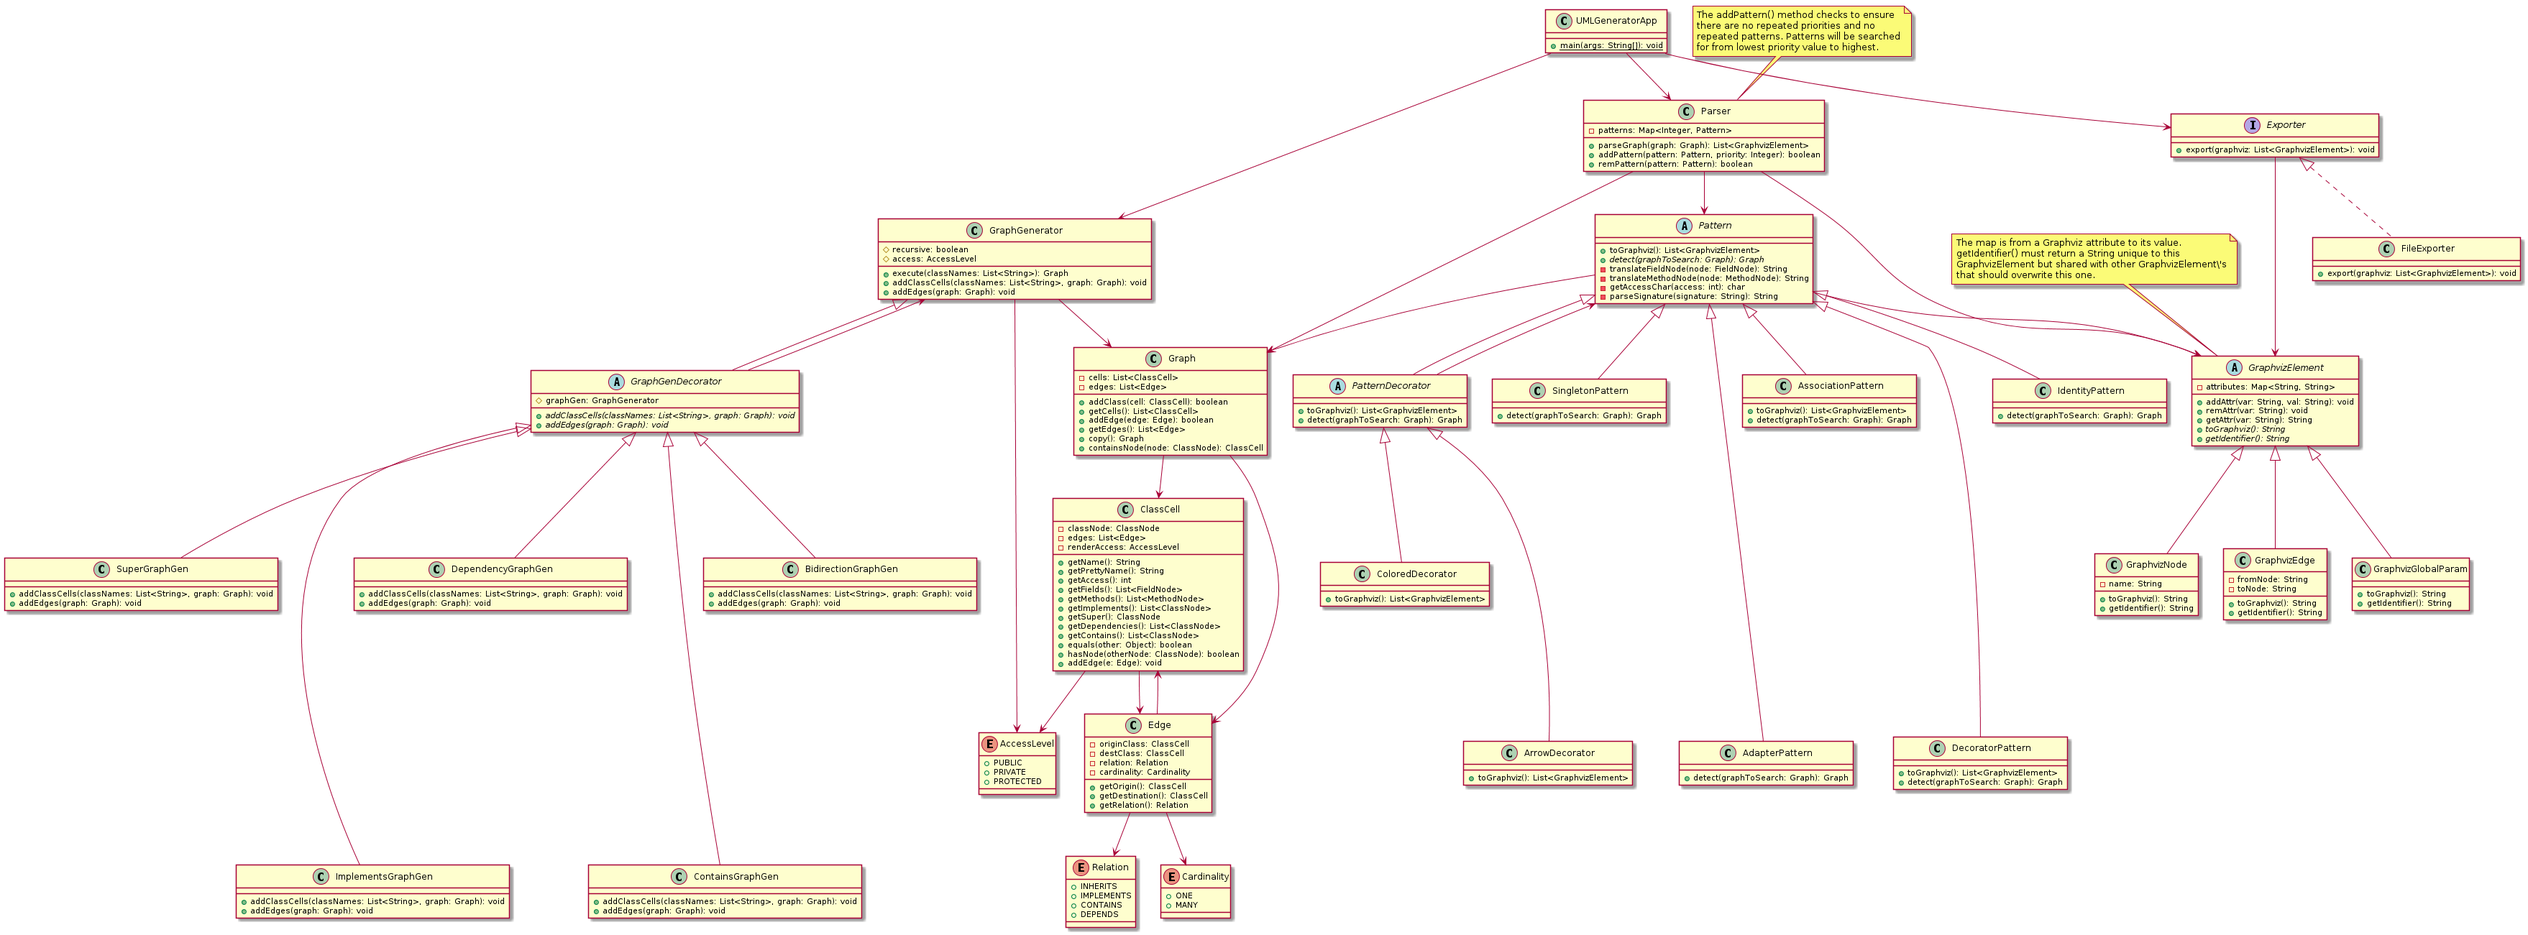
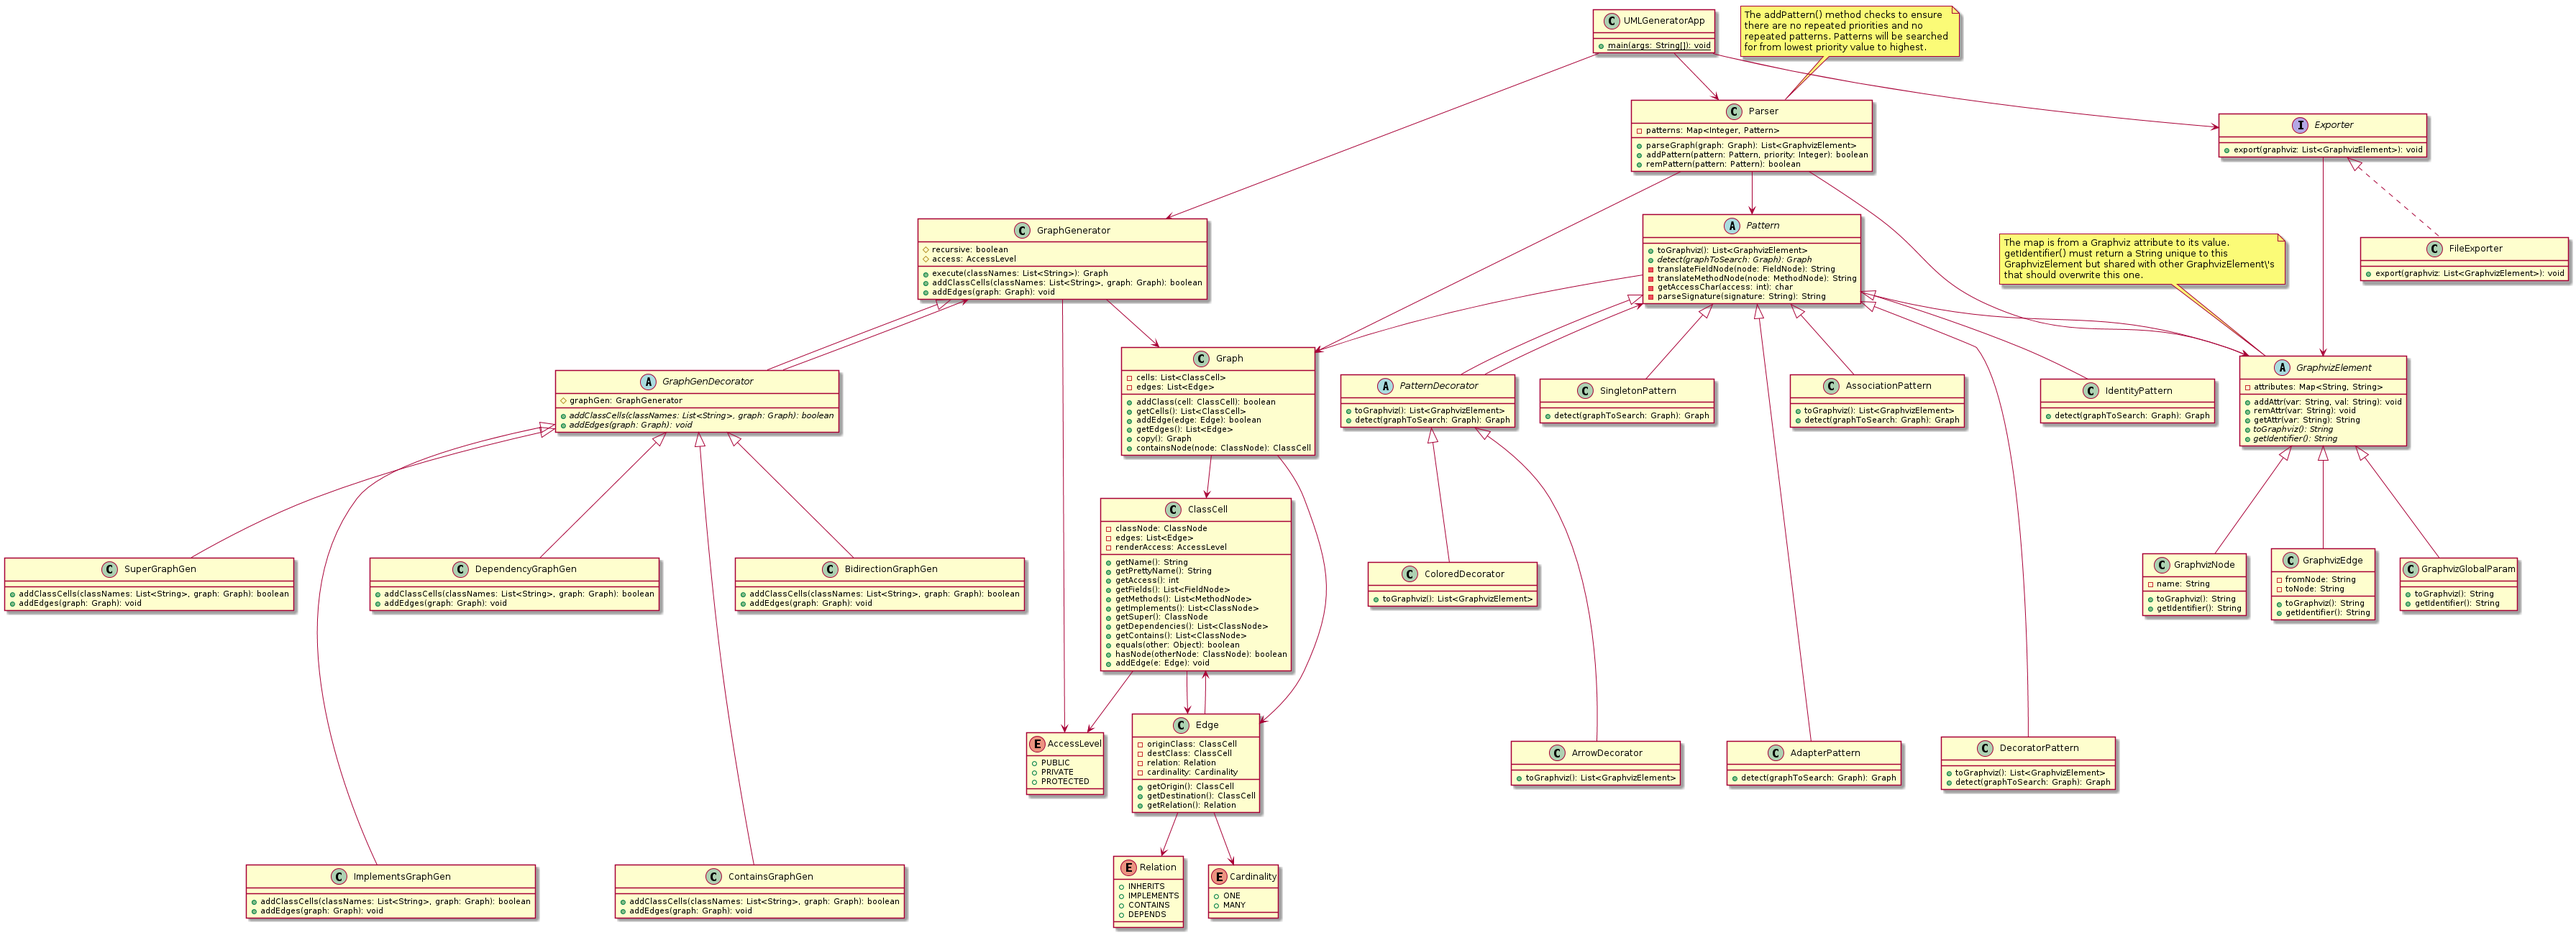
Small update to UML (and fixed some comments).

diff --git a/src/DesignParser.java b/src/DesignParser.java
@@ -1,4 +1,3 @@
-
 import java.io.IOException;
 import java.util.List;
 
@@ -18,7 +17,7 @@ import org.objectweb.asm.tree.VarInsnNode;
 public class DesignParser {
     /**
      * Reads in a list of Java Classes and reverse engineers their design.
-     * 
+     *
      * @param args
      *            : the names of the classes, separated by spaces. For example:
      *            java example.DesignParser java.lang.String

diff --git a/src/GraphvizElement.java b/src/GraphvizElement.java
@@ -68,7 +68,7 @@ public abstract class GraphvizElement {
     public abstract String getIdentifier();
 
     /**
-     * Adds the givent element to the passed list, and if there's already an
+     * Adds the given element to the passed list, and if there's already an
      * element with a matching identifier that element will be replaced with
      * the passed element.
      *
